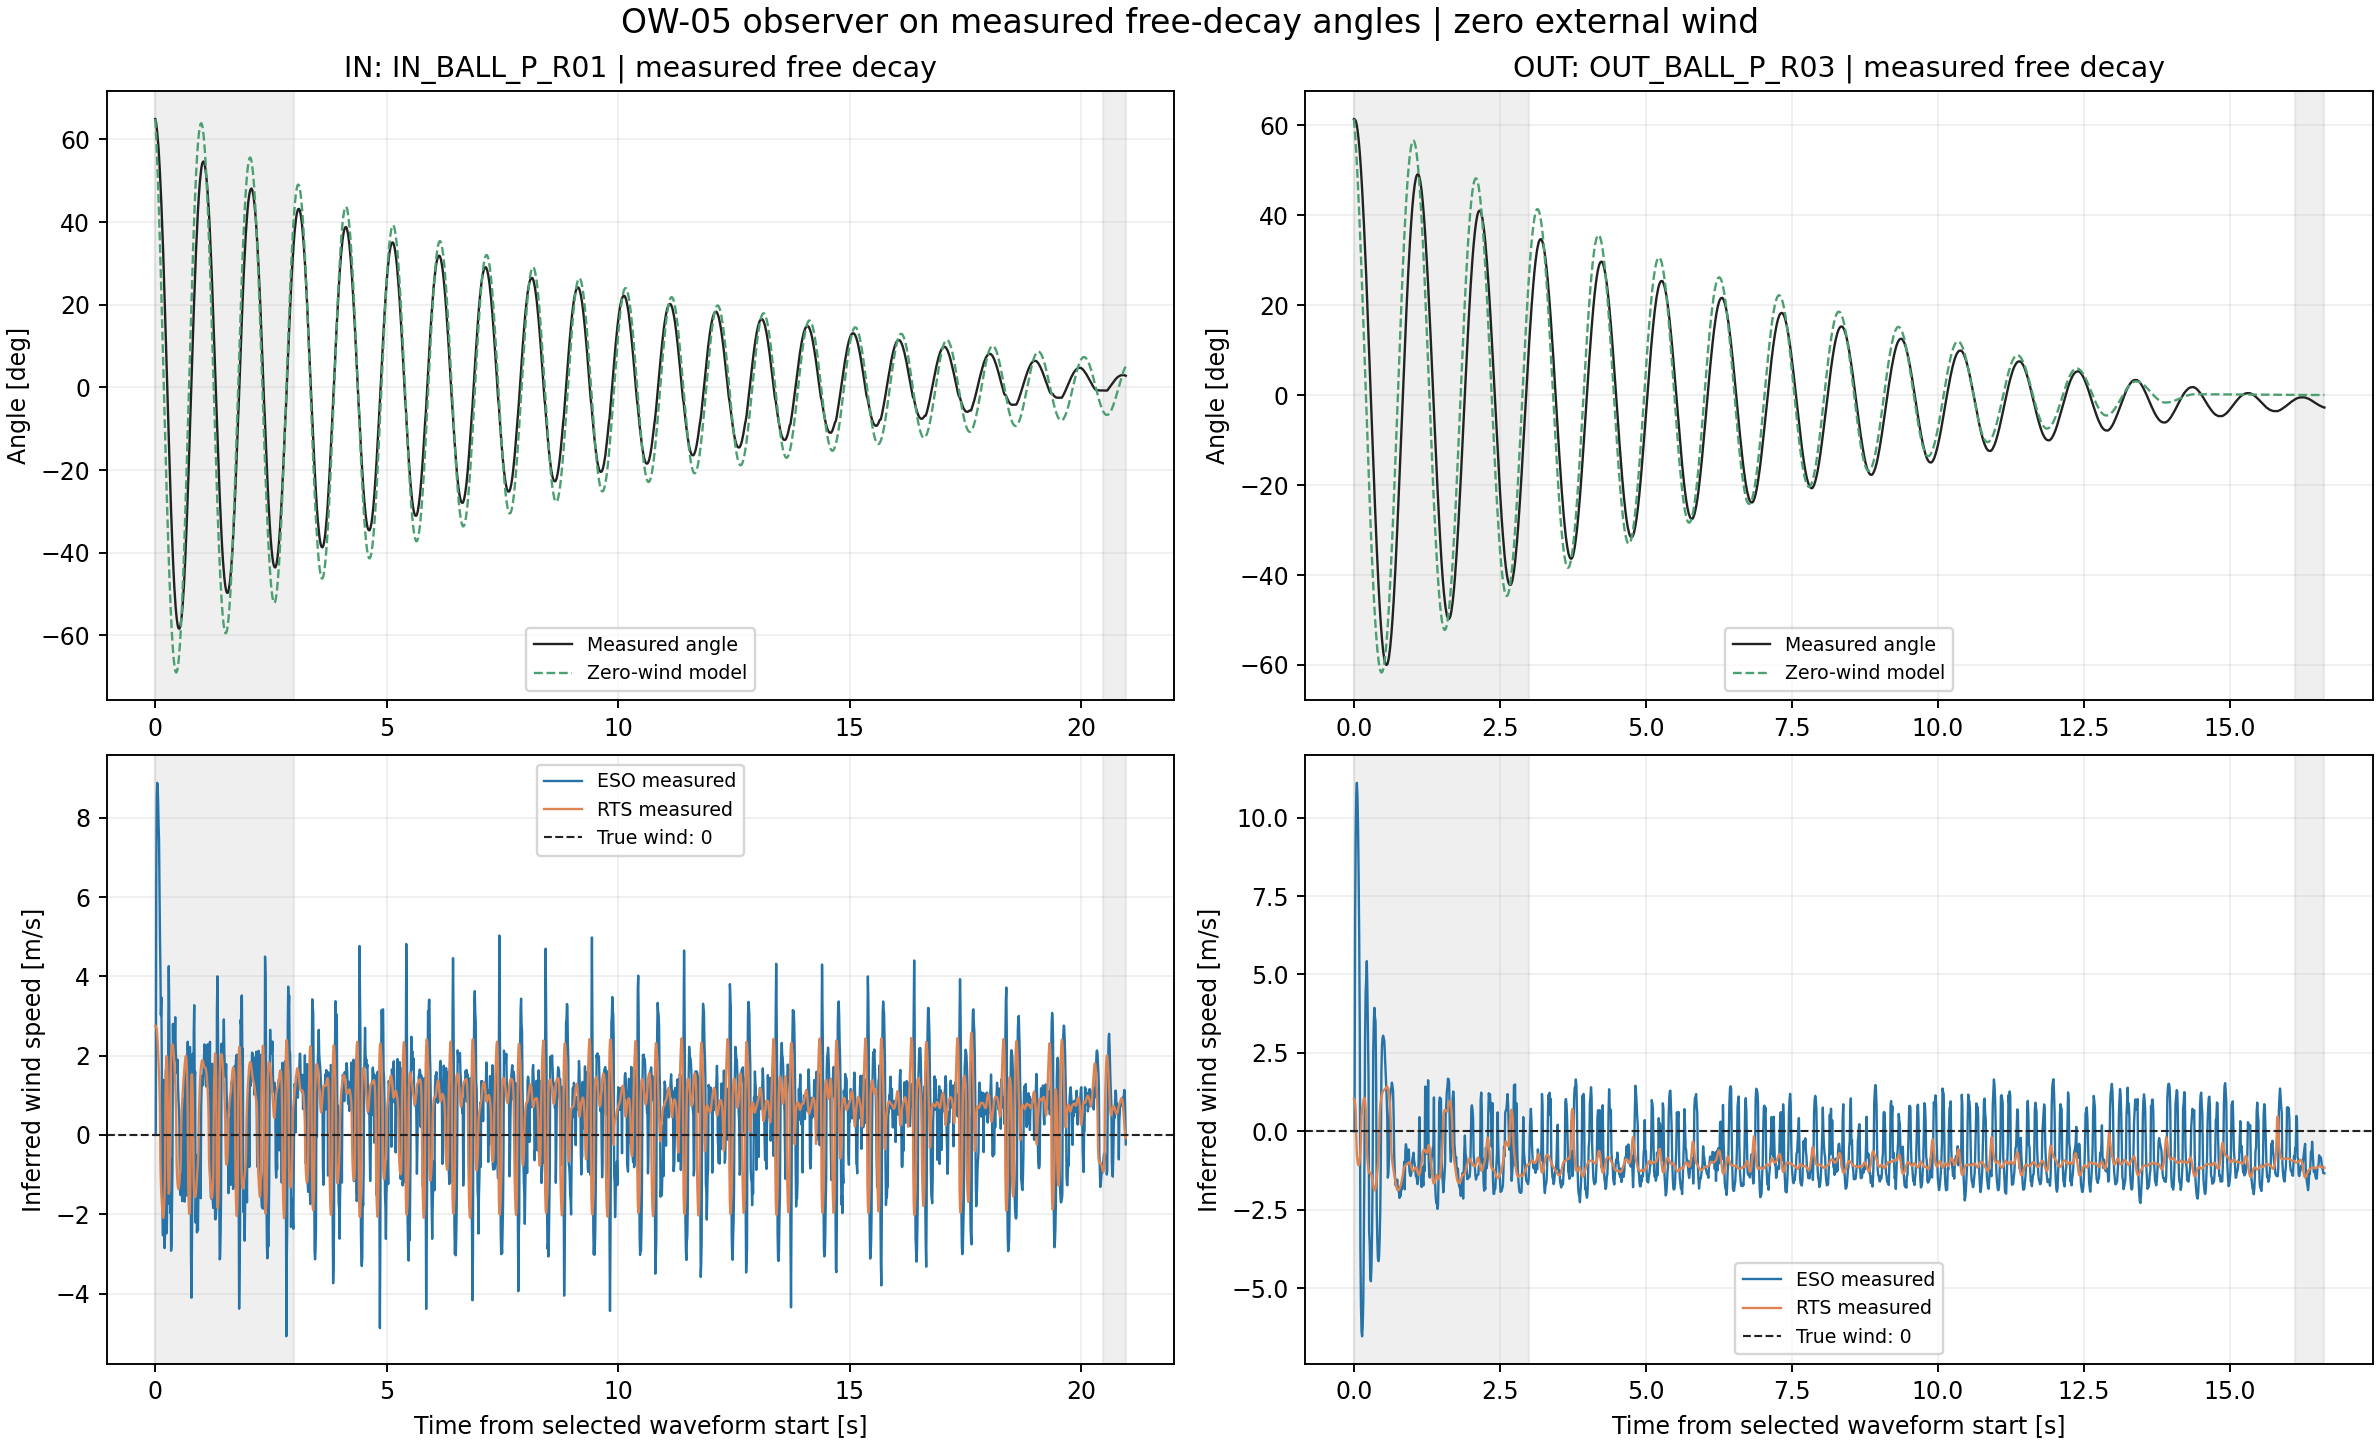
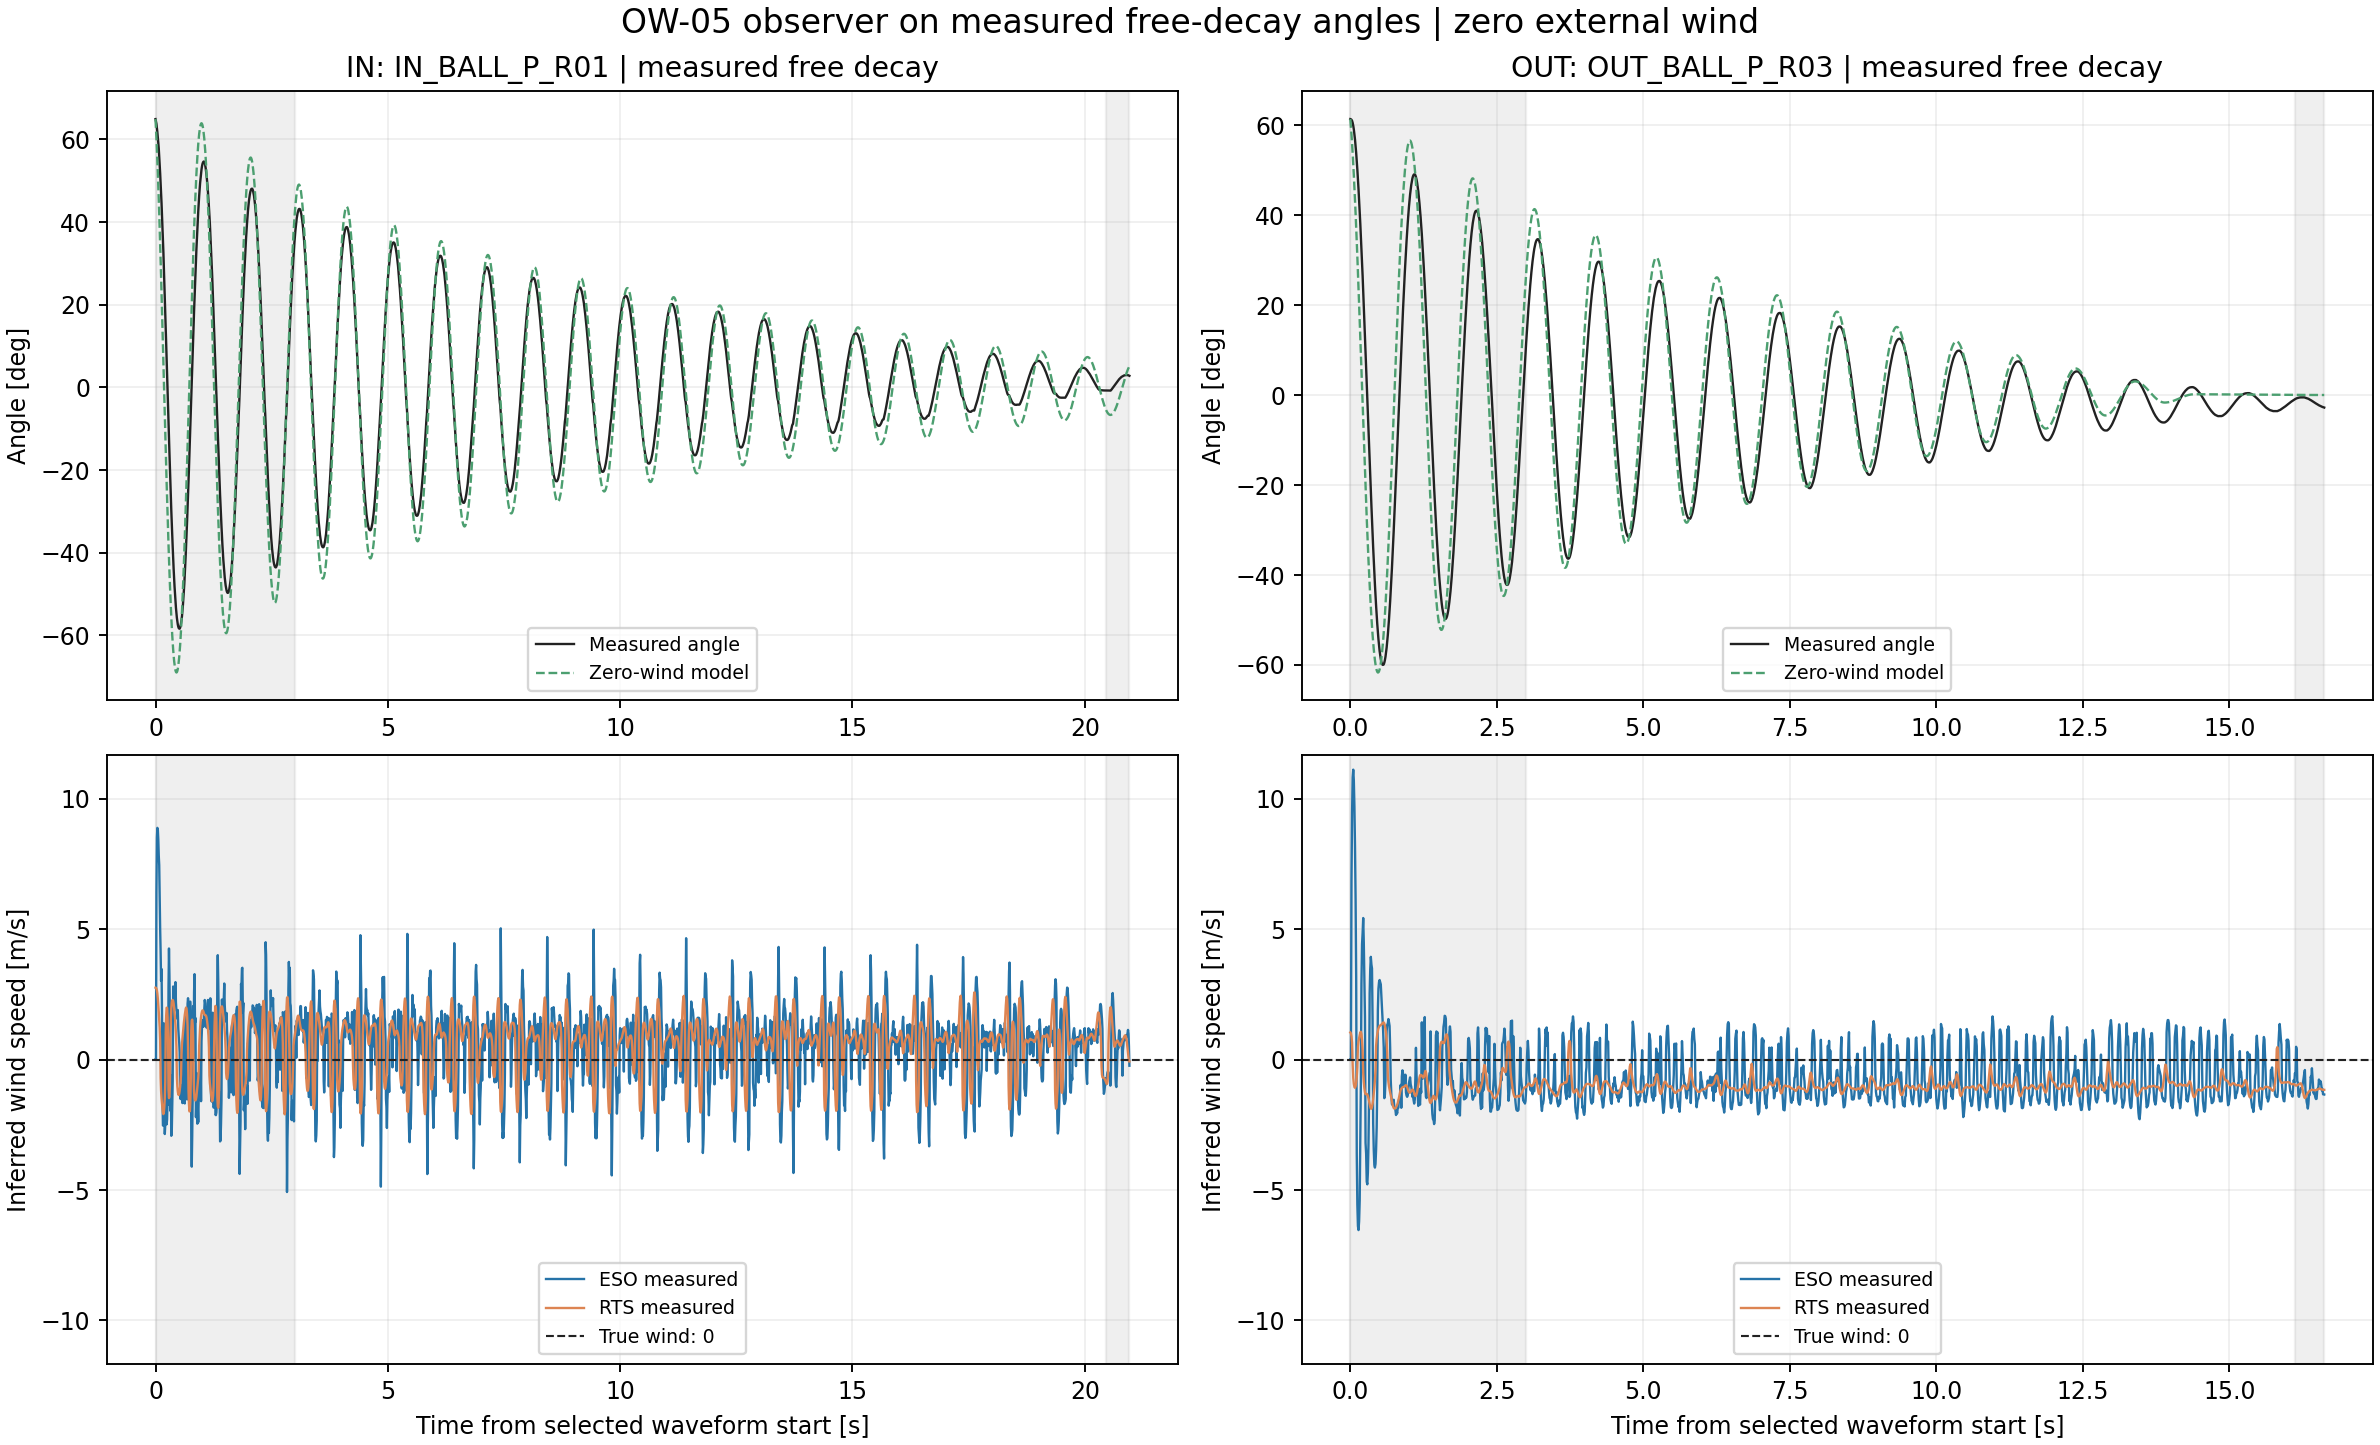
Clarify IN observer error and align free-decay plot

diff --git a/06_Analysis/simulation/src/run_ow05_sensor_nonideality.py b/06_Analysis/simulation/src/run_ow05_sensor_nonideality.py
@@ -323,6 +323,11 @@ def run():
     residual_acfs=[fr['measured_angle_residual_acf_lag1'] for fr in free_decay_validation['summary']]
     residual_rmse=[fr['measured_angle_residual_rmse_deg'] for fr in free_decay_validation['summary']]
     report += ['', f"妥当性確認の結果、実測自由振動を0風速として処理した推定RMSEは{min(fr['wind_zero_rmse_m_s'] for fr in free_decay_validation['summary']):.2f}〜{max(fr['wind_zero_rmse_m_s'] for fr in free_decay_validation['summary']):.2f} m/sだった。白色ノイズモデルの応答RMSEとの比は{min(zero_ratios):.2f}〜{max(zero_ratios):.2f}倍、残差で正規化した応答倍率比は{min(gain_ratios):.3f}〜{max(gain_ratios):.3f}だった。値は大きく異なり、静止窓σを独立白色ノイズとする仮定は実測自由振動に対する応答を再現していない。", f"ただし角度残差RMSは{min(residual_rmse):.2f}〜{max(residual_rmse):.2f}°、ラグ1自己相関は{min(residual_acfs):.3f}〜{max(residual_acfs):.3f}で、静止窓σ（IN {measured_sigma['IN']:.3f}°、OUT {measured_sigma['OUT']:.3f}°）より大きく、強く時間相関したモデル残差である。これをセンサーノイズと同一視できないため、差の全てをノイズモデルの誤りとは断定できない。一方、ゼロ風速でも推定風速が残るので、OW-05のノイズ倍率だけでは実機誤差を説明できず、b=0を含む機械モデル差と実測ノイズの時間構造を分けて再評価する必要がある。",'']
+    eso_in = next(fr for fr in free_decay_validation['summary'] if fr['axis']=='IN' and fr['method']=='ESO 3状態')
+    eso_out = next(fr for fr in free_decay_validation['summary'] if fr['axis']=='OUT' and fr['method']=='ESO 3状態')
+    in_centered_std = np.sqrt(max(0.0, eso_in['wind_zero_rmse_m_s']**2 - eso_in['wind_zero_bias_m_s']**2))
+    out_centered_std = np.sqrt(max(0.0, eso_out['wind_zero_rmse_m_s']**2 - eso_out['wind_zero_bias_m_s']**2))
+    report += [f"なお、図の下段に描いた推定風速誤差そのもののESO RMSEはIN {eso_in['wind_zero_rmse_m_s']:.3f} m/s、OUT {eso_out['wind_zero_rmse_m_s']:.3f} m/sで、INが{100*(eso_in['wind_zero_rmse_m_s']/eso_out['wind_zero_rmse_m_s']-1):.0f}%大きい。Biasを除いた変動RMSもIN {in_centered_std:.3f} m/s、OUT {out_centered_std:.3f} m/sである。角度残差RMS（IN {eso_in['measured_angle_residual_rmse_deg']:.3f}°、OUT {eso_out['measured_angle_residual_rmse_deg']:.3f}°）とは別の量であり、角度残差が同程度でもESOを通した推定風速の誤差は同じとは限らない。",'']
     report += ['### IN/OUTで振動の減衰が違う理由','',
       '実測角度の振幅包絡から、採点区間（開始3秒後〜終了0.5秒前）の正負ピークに対して `log(|peak|)=intercept−λt` を当てはめた。λは減衰包絡の経験値で、単独の粘性減衰係数ではない。方向・繰返しごとに算出し、軸別に平均した。','',
       '| 軸 | 波形数 | 実測λ [/s] | 無風モデルλ [/s] | 実測周期 [s] | モデル周期 [s] | 採用τ/I [rad/s²] | 採用c/I [s⁻¹] |','|---|---:|---:|---:|---:|---:|---:|---:|']
@@ -335,7 +340,7 @@ def run():
       f"無風モデルとの差角度RMSはIN {din['segments'] and np.mean([x['measured_angle_residual_rmse_deg'] for x in free_decay_validation['summary'] if x['axis']=='IN']):.2f}°、OUT {np.mean([x['measured_angle_residual_rmse_deg'] for x in free_decay_validation['summary'] if x['axis']=='OUT']):.2f}°で、INの方が残差波形自体が大きいという結果でもない。両軸とも残差の大部分は約1 Hzの振動帯にあり、静止窓の角度σ（約0.1°）より数十倍大きい。ESOはこの低周波のモデル残差も外力として拾うため、ゲインを下げるだけでは軸差を直せない可能性が高い。", '',
       f"![IN/OUT自由振動の実測・モデル振幅包絡](ow05_free_decay_axis_envelopes.png)",'',
       '波形別の減衰・周期値は `ow05_free_decay_axis_diagnostics.csv`、軸別集計と採用係数比は `ow05_free_decay_axis_summary.csv` に保存した。','']
-    report += ['', '上段は実測角度と同初期条件の無風モデル、下段は観測器の推定風速と真値0 m/s。角度残差にはモデル誤差も含まれる。倍率図は実測残差に対する応答を白色近似の応答ゲインと、追加の棒グラフはゼロ風速RMSEを白色ノイズ時の応答RMSEと比較する。実測/白色の差はノイズ分布・時間相関とモデル残差の差を含むため、単独でモデル誤りの証明とはしない。','',
+    report += ['', '上段は実測角度と同初期条件の無風モデル、下段は観測器の推定風速と真値0 m/s。下段はIN/OUTで同じ縦軸範囲を使い、振動幅を直接比較できる。角度残差にはモデル誤差も含まれる。倍率図は実測残差に対する応答を白色近似の応答ゲインと、追加の棒グラフはゼロ風速RMSEを白色ノイズ時の応答RMSEと比較する。実測/白色の差はノイズ分布・時間相関とモデル残差の差を含むため、単独でモデル誤りの証明とはしない。','',
       '### ESOゲイン感度（診断）','',
       '選定済み12 Hzを含む0.5〜12 HzでESO極周波数を振り、同じ実測自由振動・初期化・採点区間でゼロ風速RMSEを比較した。これはゲイン過大の診断であり、自由振動検証波形を最終ゲイン選定に流用しない。低ゲインでゼロ風速誤差が改善すれば、現行ゲインが実測摂動に過敏な可能性が高まる。ただし、自由振動のモデル残差も入力に含むため、それだけで原因をセンサーノイズと断定はできない。','',
       '| 軸 | ESO極 [Hz] | ゼロ風速RMSE [m/s] | 収束波形/対象波形 |','|---|---:|---:|---:|']

diff --git a/06_Analysis/simulation/src/ow05_free_decay_validation.py b/06_Analysis/simulation/src/ow05_free_decay_validation.py
@@ -353,6 +353,10 @@ def evaluate_free_decay(cfg: dict, tunings: dict, out: Path, repo: Path) -> dict
         ax.set_ylabel("Inferred wind speed [m/s]")
         ax.grid(alpha=.2)
         ax.legend(fontsize=8)
+    wind_limit = max(float(np.nanmax(np.abs(line.get_ydata())))
+                     for ax in axes[1] for line in ax.lines if len(line.get_ydata())) * 1.05
+    for ax in axes[1]:
+        ax.set_ylim(-wind_limit, wind_limit)
     fig.suptitle("OW-05 observer on measured free-decay angles | zero external wind", fontsize=14)
     waveform_png = "ow05_free_decay_zero_wind.png"
     fig.savefig(out / waveform_png, dpi=170)

diff --git a/06_Analysis/simulation/results/observer_wind/ow05_sensor_nonideality/OW-05_REPORT.md b/06_Analysis/simulation/results/observer_wind/ow05_sensor_nonideality/OW-05_REPORT.md
@@ -212,6 +212,8 @@ MT6701の14 bit角度量子化幅は0.02197°である。今回の摂動σとの
 妥当性確認の結果、実測自由振動を0風速として処理した推定RMSEは1.04〜1.64 m/sだった。白色ノイズモデルの応答RMSEとの比は0.77〜7.84倍、残差で正規化した応答倍率比は0.020〜0.203だった。値は大きく異なり、静止窓σを独立白色ノイズとする仮定は実測自由振動に対する応答を再現していない。
 ただし角度残差RMSは3.62〜3.91°、ラグ1自己相関は0.994〜0.995で、静止窓σ（IN 0.093°、OUT 0.101°）より大きく、強く時間相関したモデル残差である。これをセンサーノイズと同一視できないため、差の全てをノイズモデルの誤りとは断定できない。一方、ゼロ風速でも推定風速が残るので、OW-05のノイズ倍率だけでは実機誤差を説明できず、b=0を含む機械モデル差と実測ノイズの時間構造を分けて再評価する必要がある。
 
+なお、図の下段に描いた推定風速誤差そのもののESO RMSEはIN 1.636 m/s、OUT 1.210 m/sで、INが35%大きい。Biasを除いた変動RMSもIN 1.549 m/s、OUT 0.974 m/sである。角度残差RMS（IN 3.623°、OUT 3.911°）とは別の量であり、角度残差が同程度でもESOを通した推定風速の誤差は同じとは限らない。
+
 ### IN/OUTで振動の減衰が違う理由
 
 実測角度の振幅包絡から、採点区間（開始3秒後〜終了0.5秒前）の正負ピークに対して `log(|peak|)=intercept−λt` を当てはめた。λは減衰包絡の経験値で、単独の粘性減衰係数ではない。方向・繰返しごとに算出し、軸別に平均した。
@@ -229,7 +231,7 @@ MT6701の14 bit角度量子化幅は0.02197°である。今回の摂動σとの
 波形別の減衰・周期値は `ow05_free_decay_axis_diagnostics.csv`、軸別集計と採用係数比は `ow05_free_decay_axis_summary.csv` に保存した。
 
 
-上段は実測角度と同初期条件の無風モデル、下段は観測器の推定風速と真値0 m/s。角度残差にはモデル誤差も含まれる。倍率図は実測残差に対する応答を白色近似の応答ゲインと、追加の棒グラフはゼロ風速RMSEを白色ノイズ時の応答RMSEと比較する。実測/白色の差はノイズ分布・時間相関とモデル残差の差を含むため、単独でモデル誤りの証明とはしない。
+上段は実測角度と同初期条件の無風モデル、下段は観測器の推定風速と真値0 m/s。下段はIN/OUTで同じ縦軸範囲を使い、振動幅を直接比較できる。角度残差にはモデル誤差も含まれる。倍率図は実測残差に対する応答を白色近似の応答ゲインと、追加の棒グラフはゼロ風速RMSEを白色ノイズ時の応答RMSEと比較する。実測/白色の差はノイズ分布・時間相関とモデル残差の差を含むため、単独でモデル誤りの証明とはしない。
 
 ### ESOゲイン感度（診断）
 
